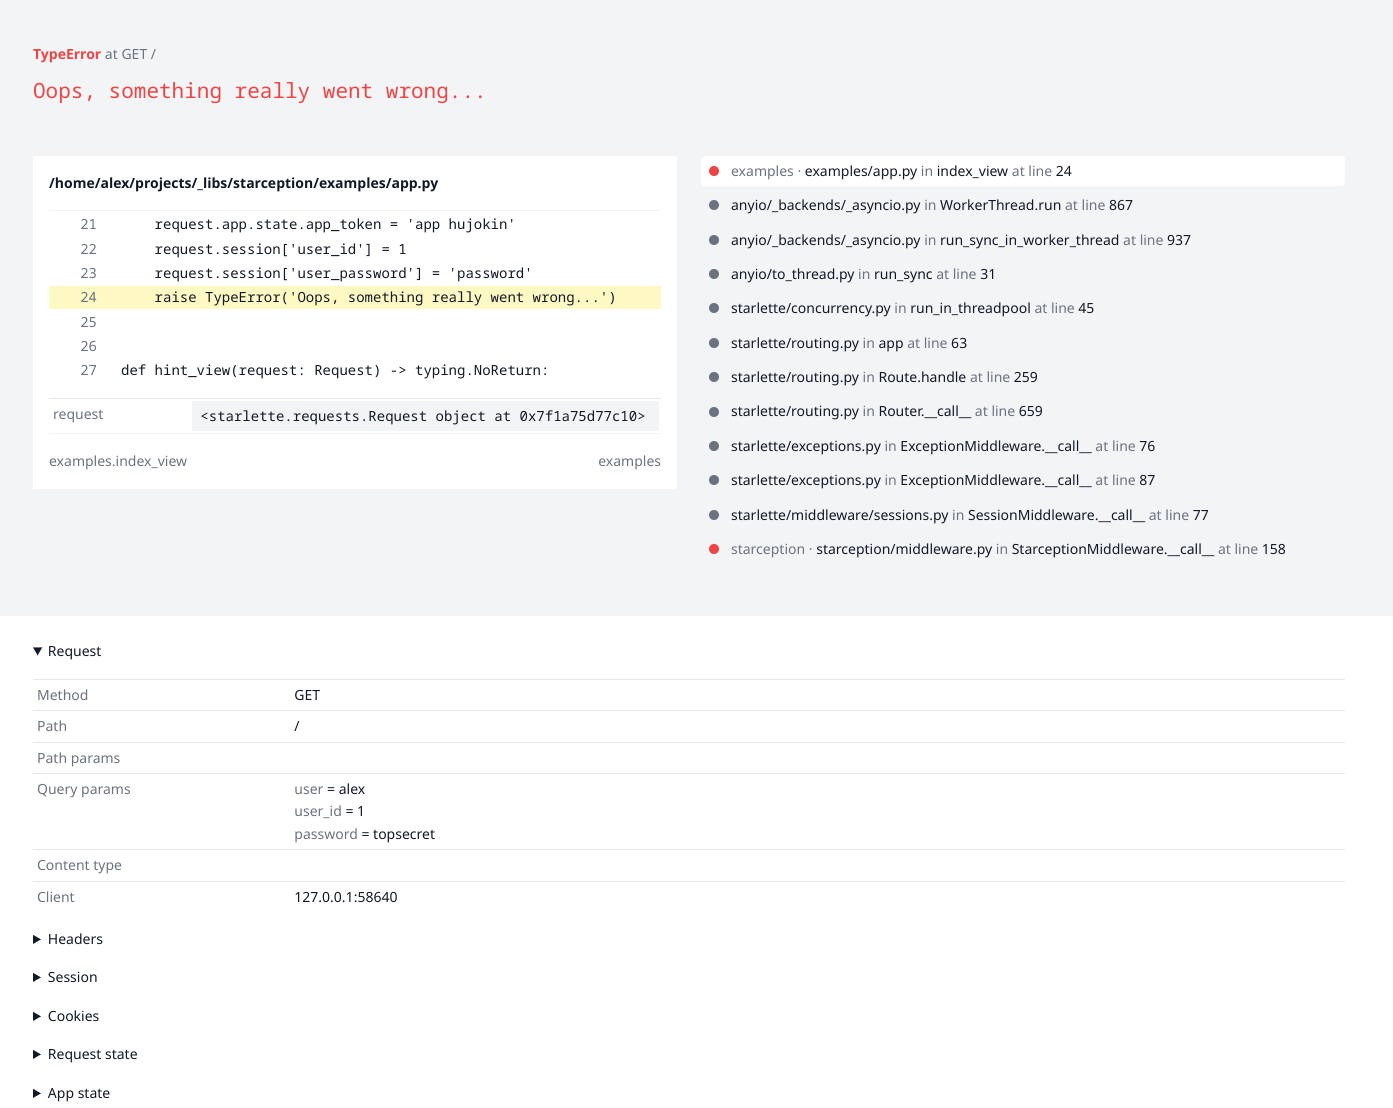
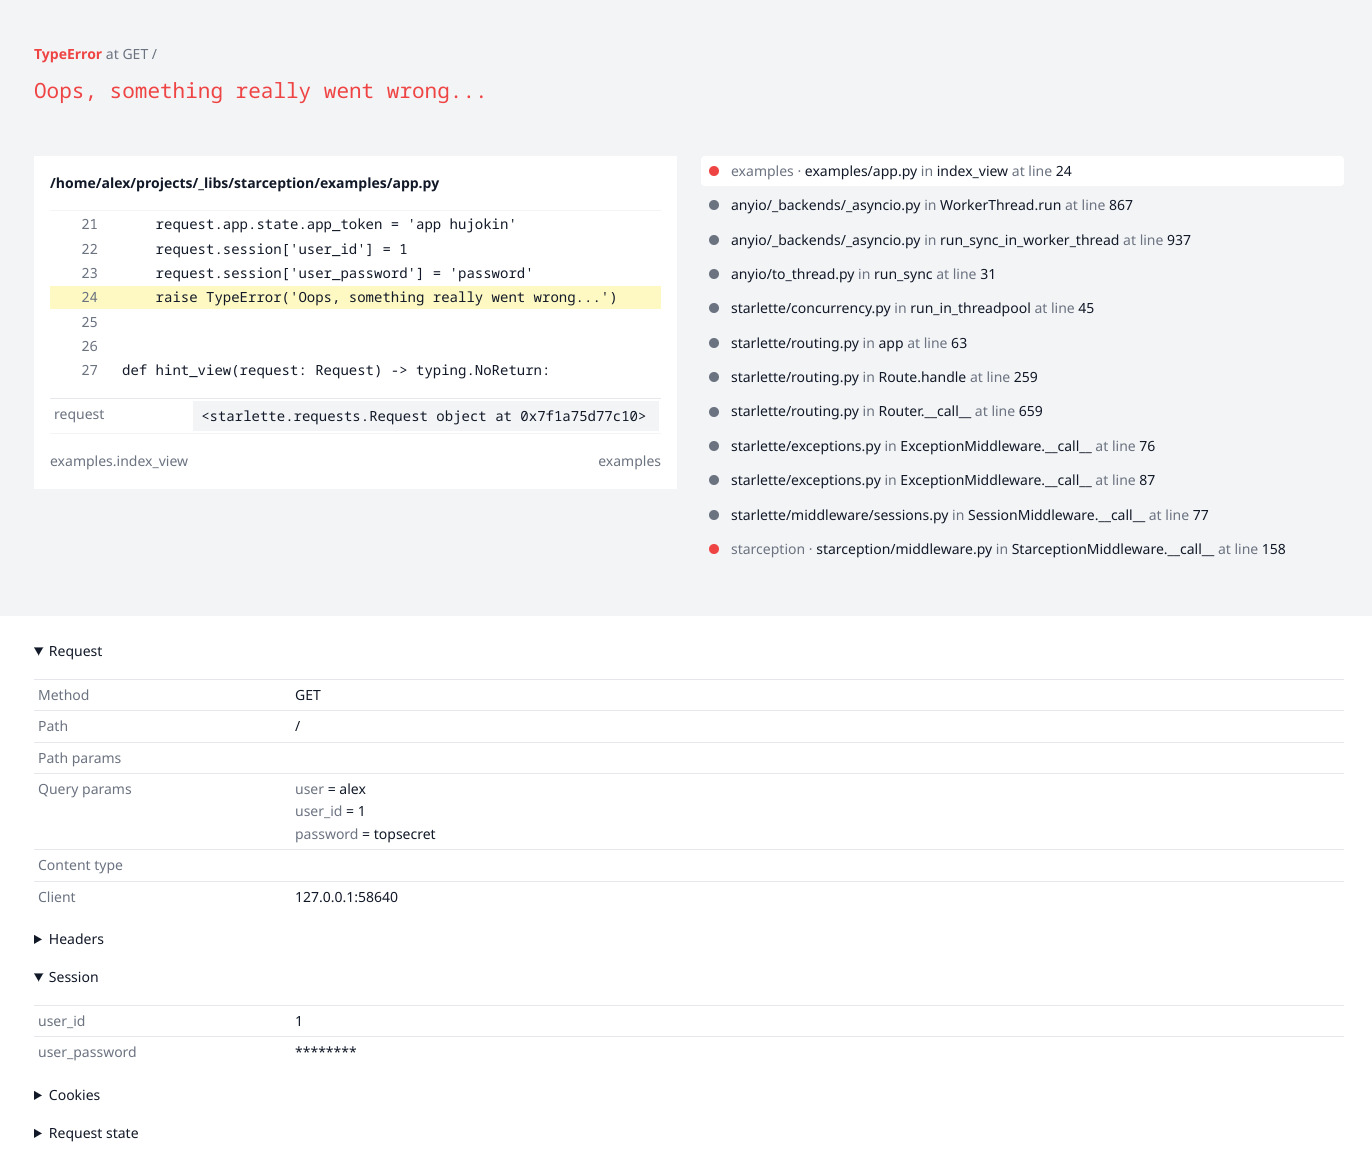
update docs

diff --git a/README.md b/README.md
@@ -31,6 +31,11 @@ app = Starlette(
 )
 ```
 
+Note, the middleware won't handle anything if `debug=False`,
+instead it will display plain string "Internal Server Error".
+Also, I would recommend to add it only for local development, as such error page,
+when enabled on prod by mistake, can expose sensitive data.
+
 ## Screenshot
 
 ![image](screenshot.png)
@@ -46,10 +51,11 @@ app = Starlette(
 * platform information
 * environment variables
 
+The middleware will automatically mask any value which key contains `key`, `secret`, `token`, `password`.
+
 ## Quick start
 
 See example application in `examples/` directory of this repository.
-
 
 ## Solution hints
 
